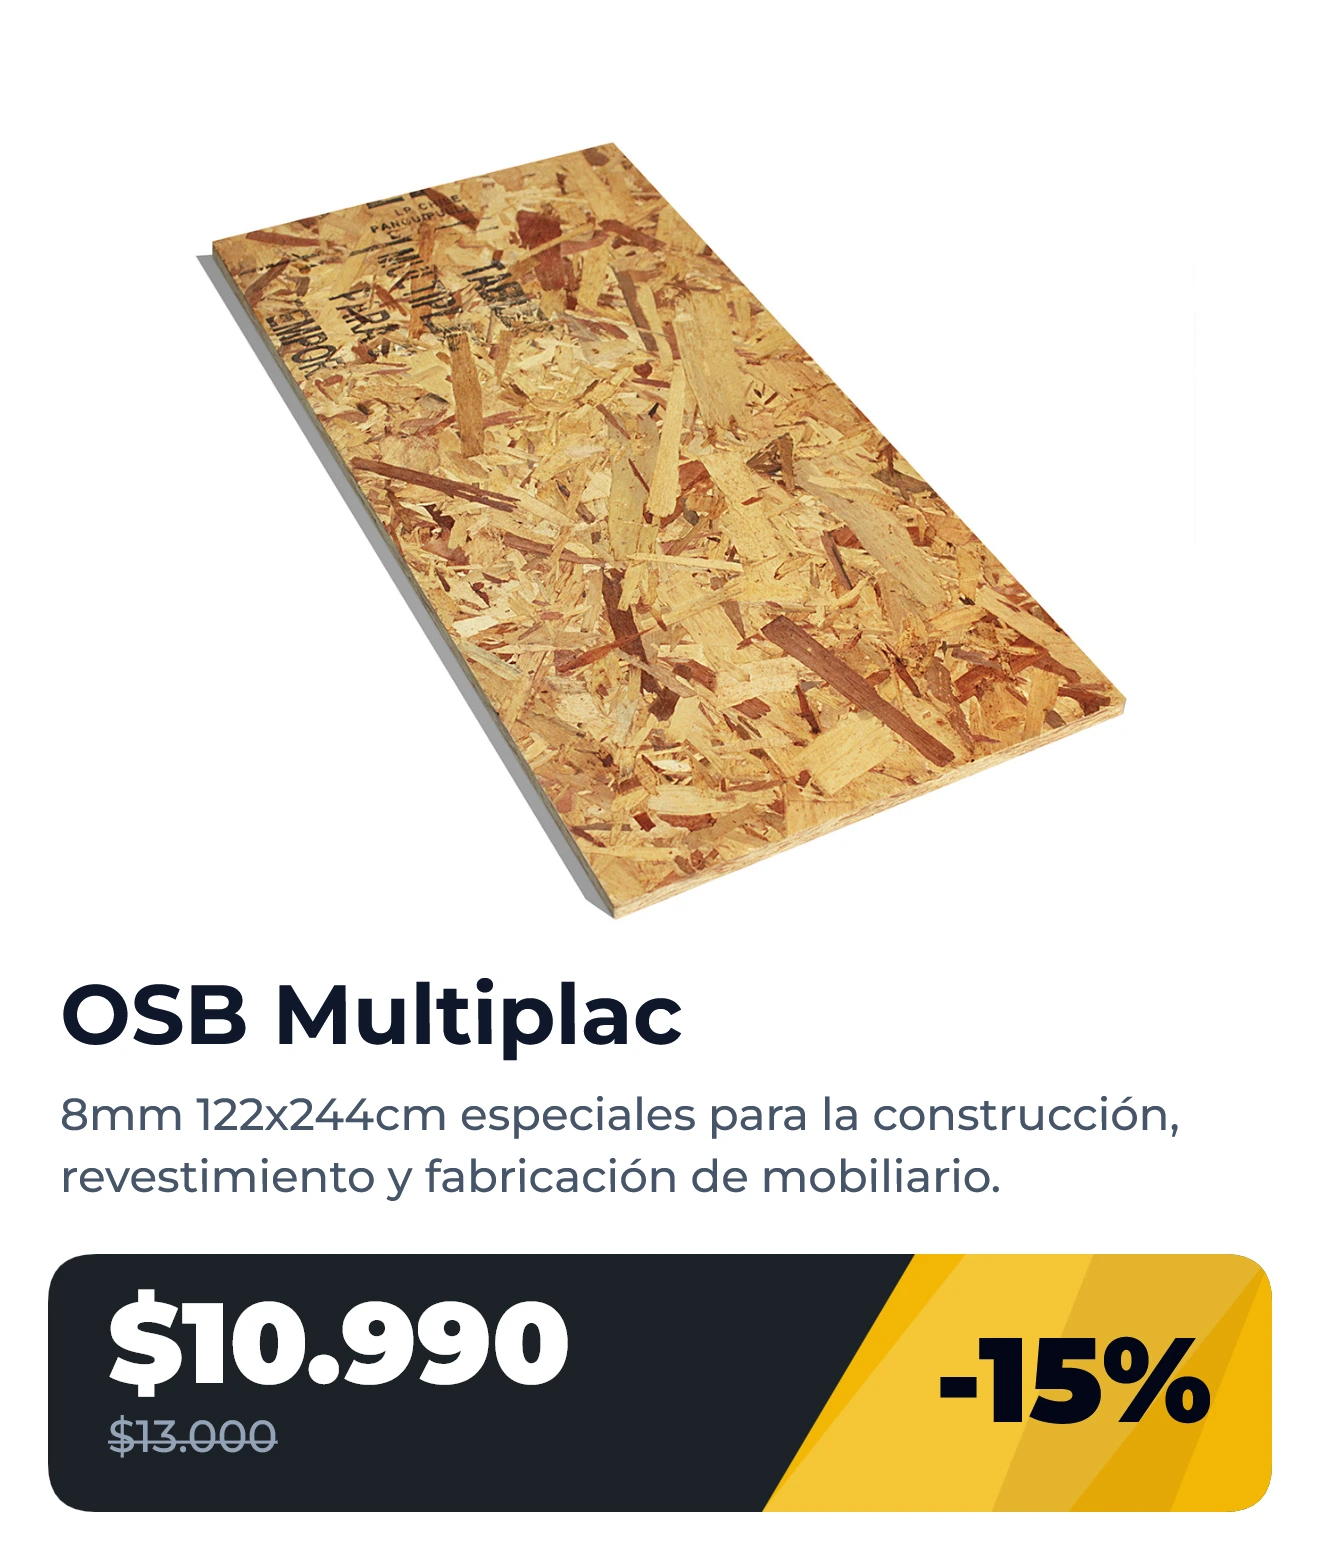
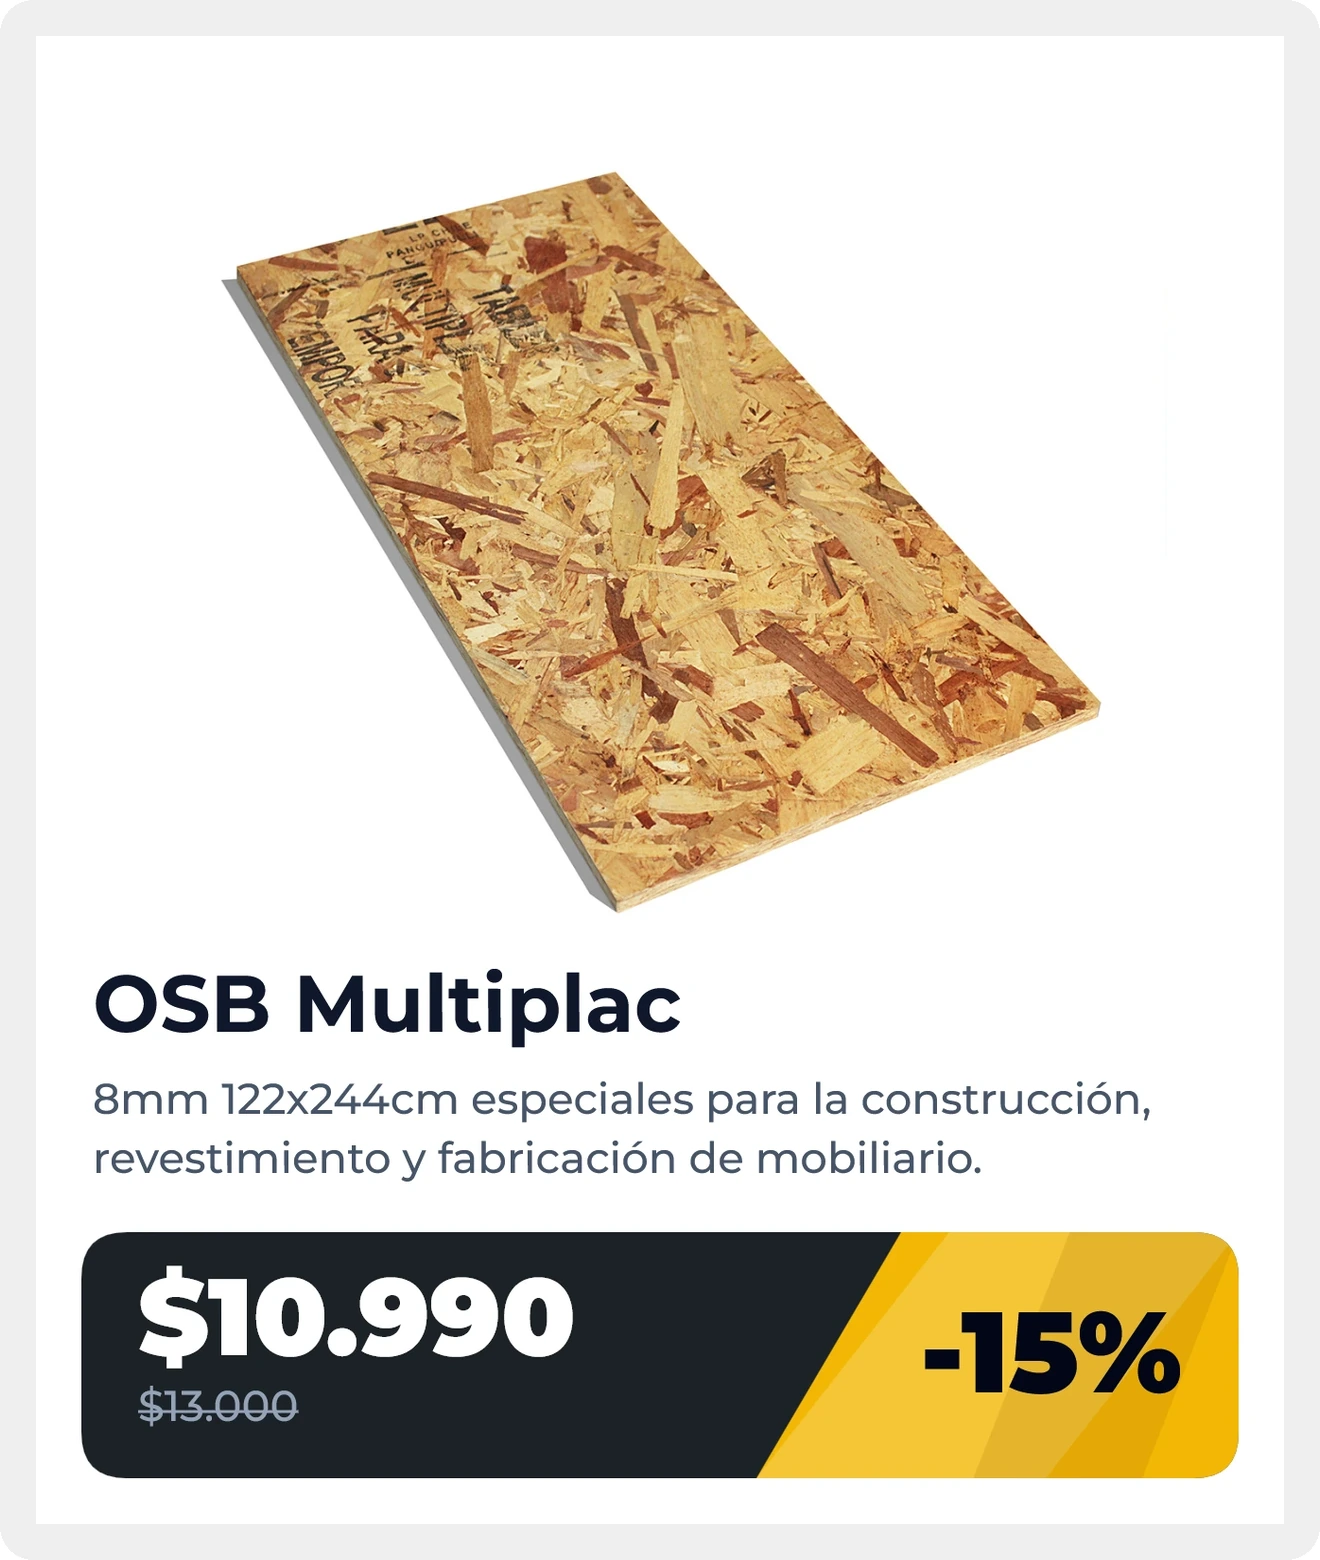
refactor(renderizador): Cambios generales en el renderizador de productos en ofertas

Changed region(s): [[0.0311, 0.6154, 0.9629, 0.9846], [0.1553, 0.0923, 0.8697, 0.5846]]

diff --git a/src/utils/renderizadoresGeneradores.js b/src/utils/renderizadoresGeneradores.js
@@ -166,6 +166,31 @@ export const renderizarTarjetaProducto = (canvas, config = {}, escala = 2) => {
 
   const ctx = prepararCanvas(canvas, TARJETA_ANCHO, TARJETA_ALTO, escala);
 
+  // Marco gris + tarjeta blanca interior (mismo tratamiento que las tarjetas
+  // de seguridad). El contenido se dibuja escalado dentro de la tarjeta blanca
+  // para conservar las proporciones del diseño base.
+  const marco = Math.max(8, Math.round(TARJETA_ANCHO * 0.027));
+  const anchoInterior = TARJETA_ANCHO - marco * 2;
+  const altoInterior = TARJETA_ALTO - marco * 2;
+  const radioMarco = 11;
+
+  ctx.fillStyle = '#ffffff';
+  ctx.fillRect(0, 0, TARJETA_ANCHO, TARJETA_ALTO);
+
+  rectanguloRedondeado(ctx, 0, 0, TARJETA_ANCHO, TARJETA_ALTO, radioMarco);
+  ctx.fillStyle = '#efefef';
+  ctx.fill();
+
+  ctx.fillStyle = '#ffffff';
+  ctx.fillRect(marco, marco, anchoInterior, altoInterior);
+
+  ctx.save();
+  ctx.beginPath();
+  ctx.rect(marco, marco, anchoInterior, altoInterior);
+  ctx.clip();
+  ctx.translate(marco, marco);
+  ctx.scale(anchoInterior / TARJETA_ANCHO, altoInterior / TARJETA_ALTO);
+
   const titulo = String(config.titulo ?? '').trim();
   const descripcion = String(config.descripcion ?? '').trim();
   const precioNormal = numero(config.precioNormal);
@@ -385,6 +410,8 @@ export const renderizarTarjetaProducto = (canvas, config = {}, escala = 2) => {
   lineasDescripcion.forEach((linea, indice) => {
     ctx.fillText(linea, textoIzquierda, descripcionY + indice * altoLineaDescripcion);
   });
+
+  ctx.restore();
 
   return canvas;
 };
